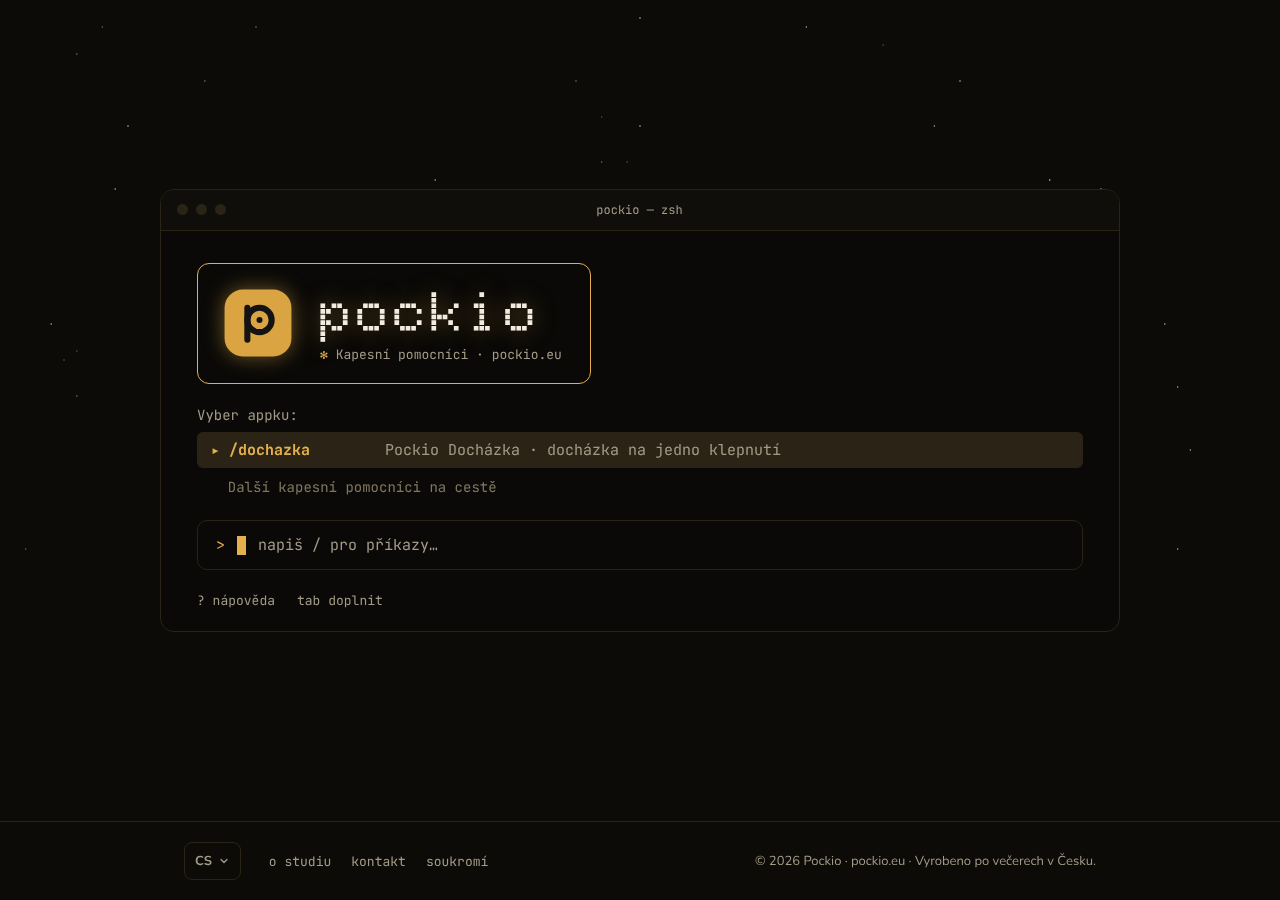
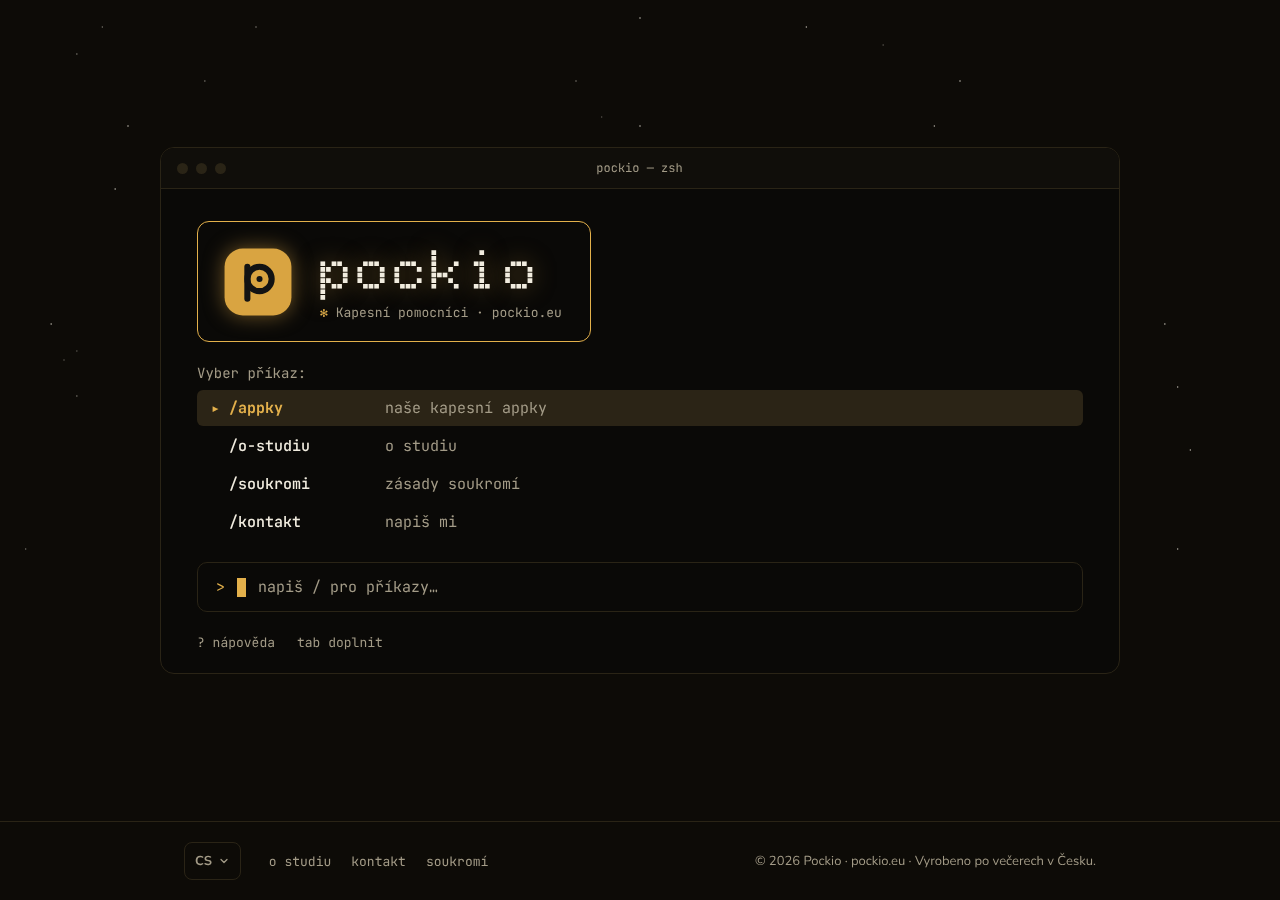
Update design: apps, phone boards, remove stale duplicates

Changed region(s): [[0.125, 0.1867, 0.8438, 0.7156], [0.4688, 0.1556, 0.5312, 0.2489]]

diff --git a/design/README.md b/design/README.md
@@ -1,19 +1,20 @@
 # design/
 
-Screenshoty schváleného návrhu (plátno „Pockio.eu – website"), vždy EN a CS, jen tmavé téma. Šířka 1280 px.
+Screenshoty schváleného návrhu (plátno „Pockio.eu – website"), vždy EN a CS, jen tmavé téma. Desktop 1280 px (`*-en.png`, `*-cs.png`), telefon 390 px (`*-telefon.png`).
 
 | Soubor | Co ukazuje |
 |---|---|
-| `01-home-*.png` | Domů: terminál se seznamem appek |
-| `02-detail-appky-*.png` | Detail appky jako výpis `/attendance` v terminálu |
-| `03-o-studiu-*.png` | O studiu jako výpis `/about` |
-| `04-kontakt-*.png` | Kontakt jako výpis `/contact` |
-| `05-privacy-*.png` | Privacy: samostatná textová stránka bez terminálu |
-| `terminal-demo-vypisovani.html` | Klikací ukázka: příkazy, vyčištění obrazovky, `← /home`, plynulé vypisování po slovech s kurzorem. Otevři v prohlížeči. |
+| `01-home-*` | Domů: terminál se čtyřmi příkazy `/apps`, `/about`, `/privacy`, `/contact` |
+| `02-apps-*` | Výpis `/apps`: seznam appek + šedý řádek „More pocket-sized helpers on the way" |
+| `03-o-studiu-*` | O studiu jako výpis `/about` |
+| `04-detail-appky-*` | Detail appky jako výpis `/attendance` (zpět `← /apps`) |
+| `05-kontakt-*` | Kontakt jako výpis `/contact` |
+| `06-privacy-*` | Privacy: samostatná textová stránka bez terminálu. Příkaz `/privacy` v terminálu vypíše krátké shrnutí s odkazem na ni (tento výpis v designu zatím není) |
+| `terminal-demo-vypisovani.html` | Klikací ukázka vypisování po slovech (starší, appky ještě přímo na Domů; chování výpisu platí). |
 
 Poznámky:
-- Výpisy v terminálu jsou ukázané ve finálním stavu (po dokončení vypisování).
-- Texty a hodnoty v `[…]` jsou zástupné (e-mail, odkaz na Google Play, velikost, datum).
-- Screenshoty v detailu appky jsou nakreslené ukázky, v ostré verzi budou skutečné.
+- Na telefonu nejde psát: vstupní řádek a nápověda se schovají, jen klikání. Logo se zmenší, screenshoty appky jsou ve 2 sloupcích bez horizontálního scrollu.
+- Výpisy jsou ve finálním stavu (po dokončení vypisování).
+- Texty v `[…]` jsou zástupné (e-mail, odkaz na Google Play, velikost, datum). Screenshoty appky jsou nakreslené ukázky.
 - Tlačítko Google Play je zástupné, v ostré verzi oficiální odznak podle pravidel Google.
 - Logo: `../logo/pockio-logo-dark.svg`.
